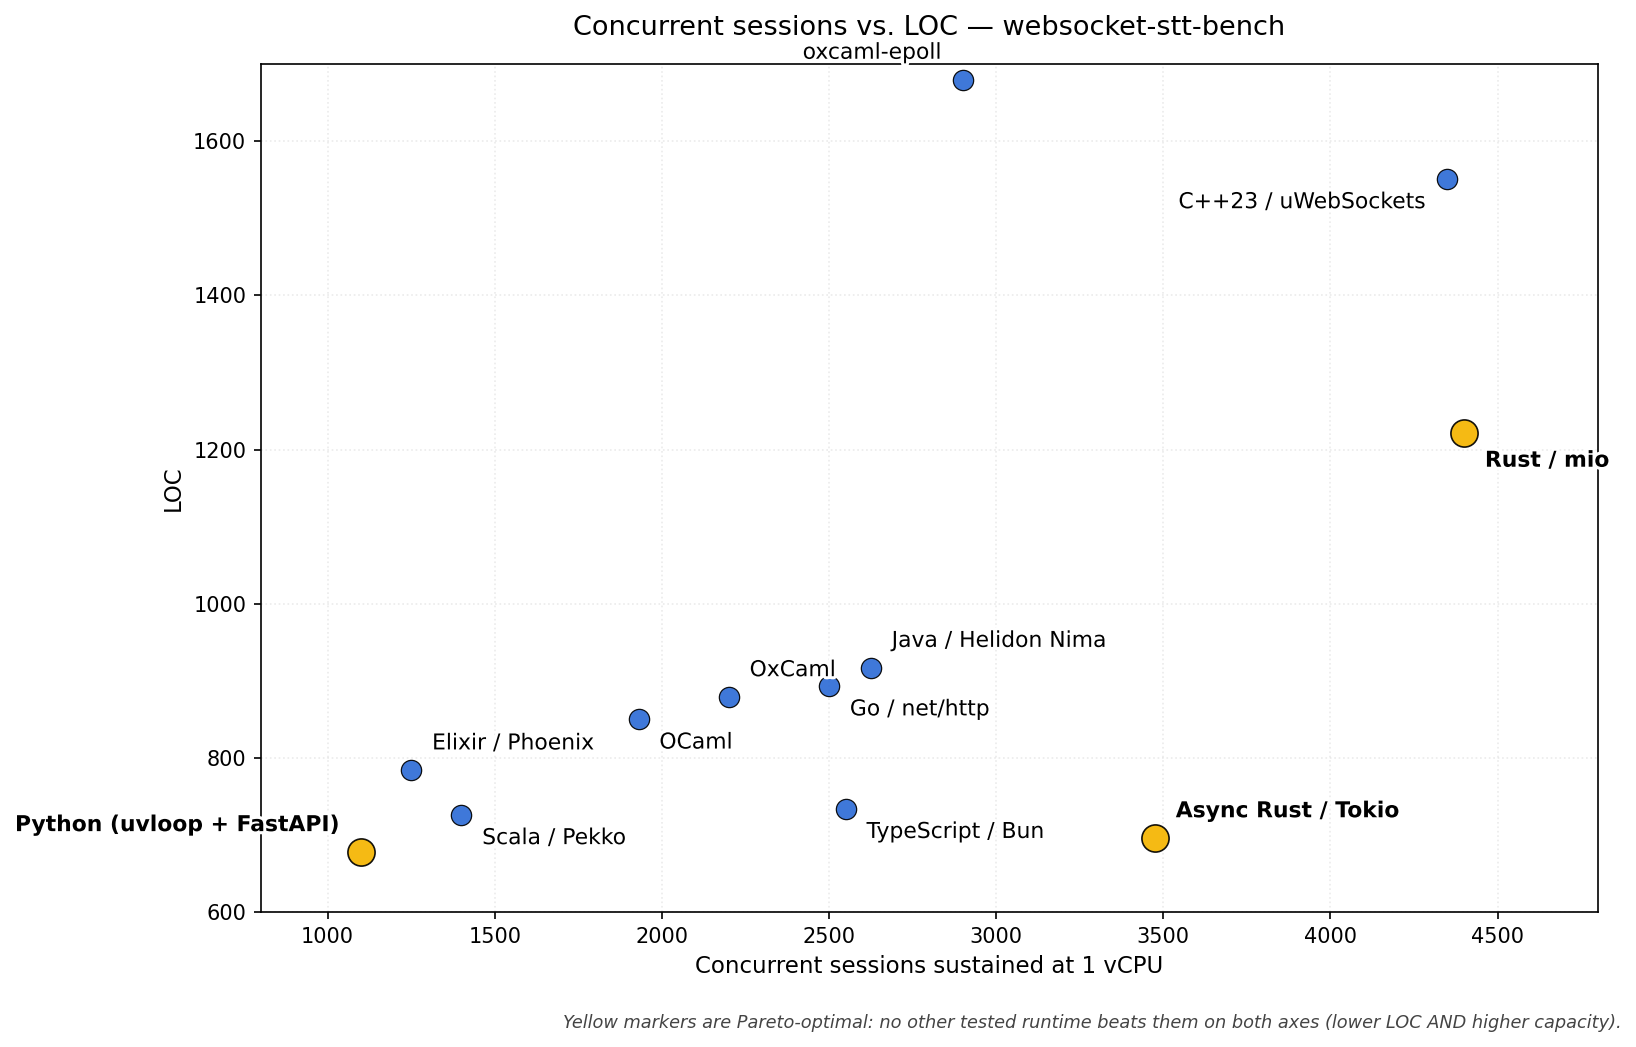
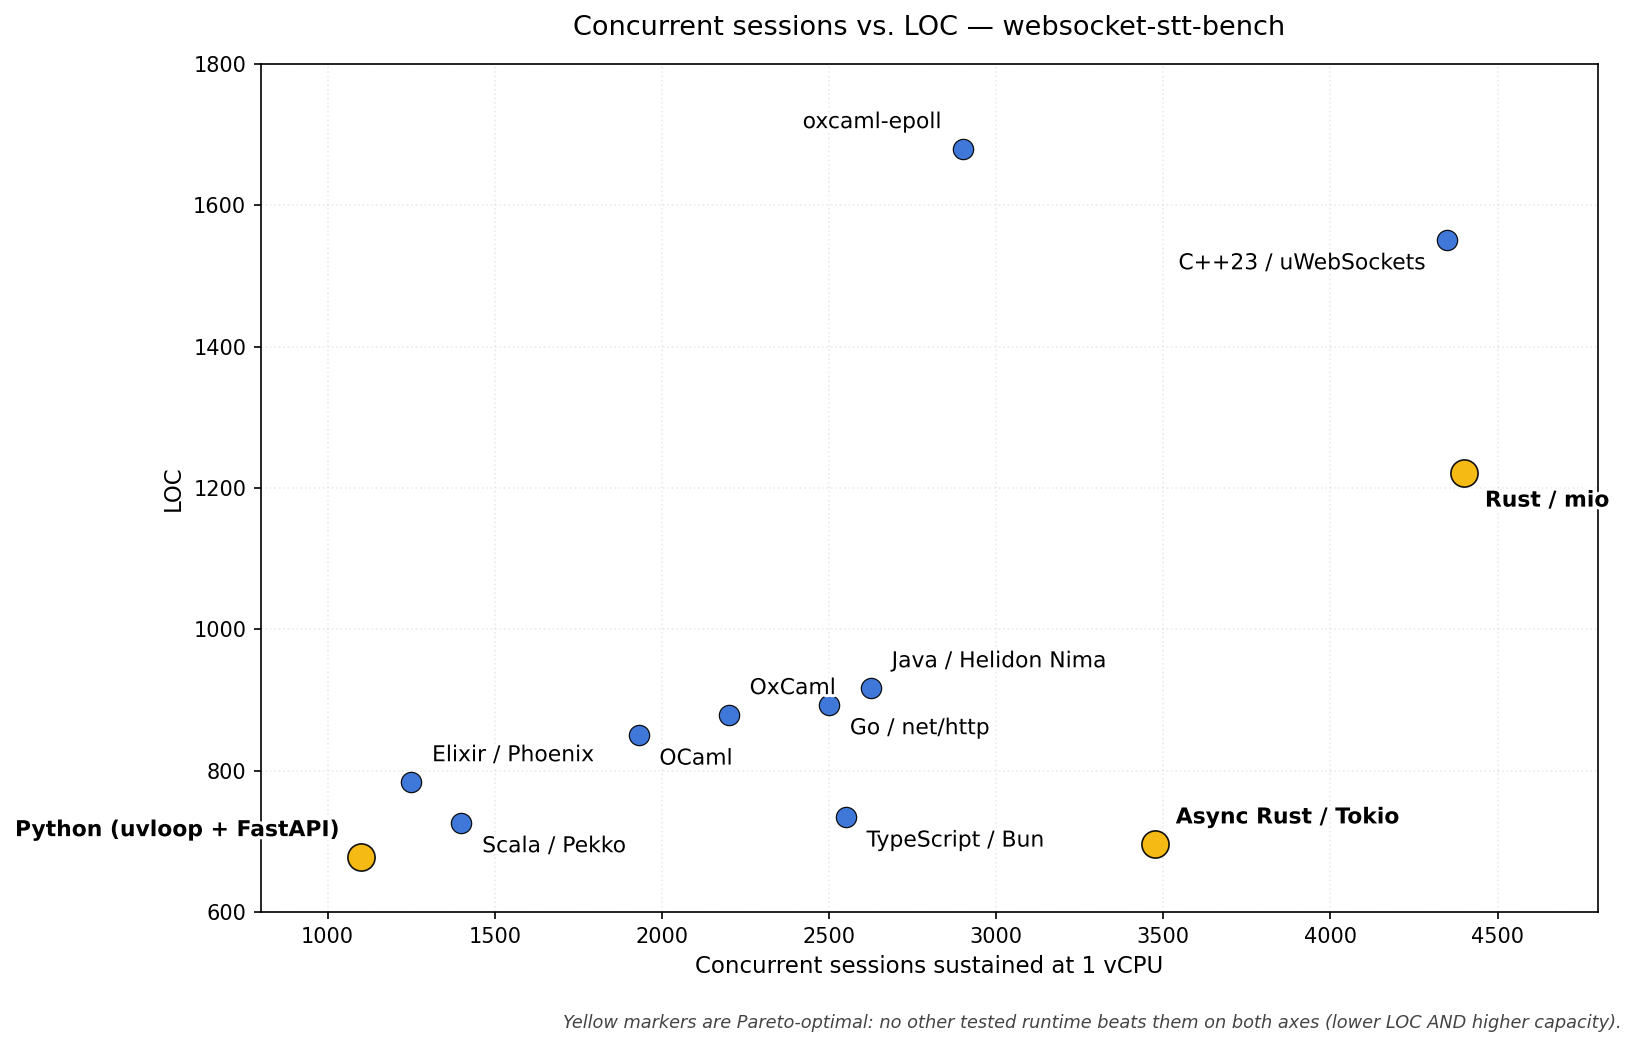
Fix LOC chart y-axis headroom

diff --git a/analysis/stt_analysis/comparison_chart_gen.py b/analysis/stt_analysis/comparison_chart_gen.py
@@ -91,7 +91,7 @@ def render(out_path: Path) -> None:
     ax.set_axisbelow(True)
 
     ax.set_xlim(800, 4800)
-    ax.set_ylim(600, 1700)
+    ax.set_ylim(600, 1800)
 
     fig.text(
         0.99,